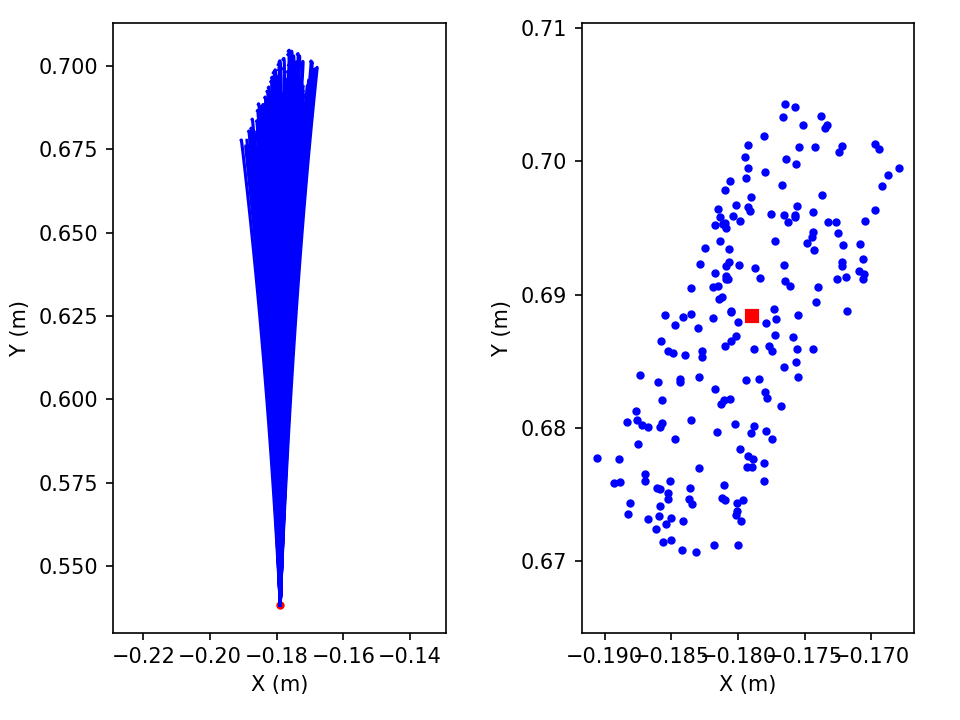
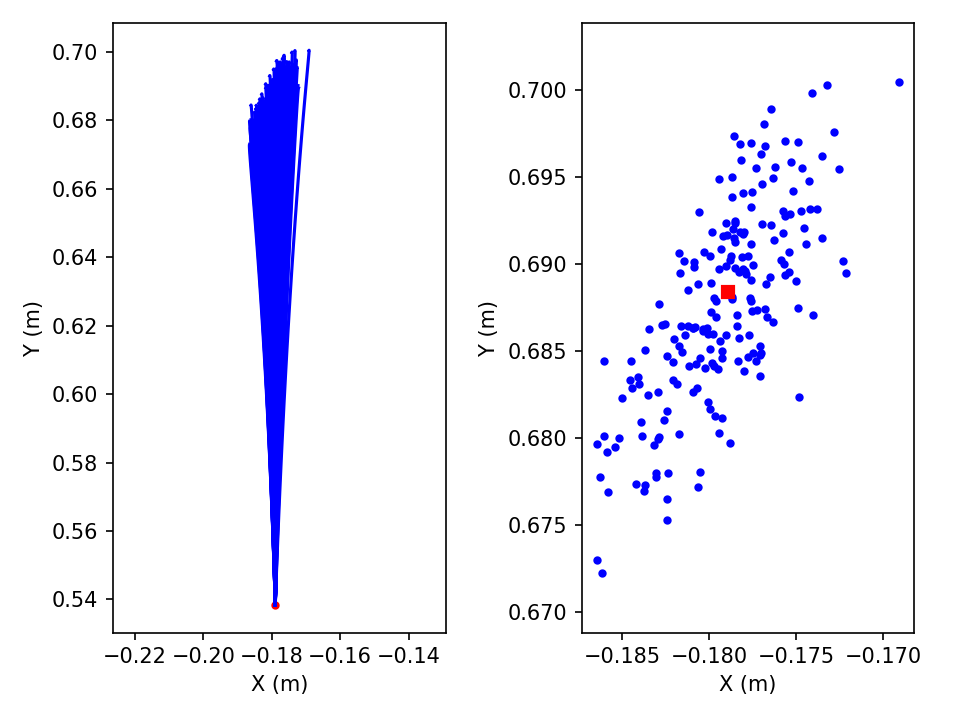
gaussian

diff --git a/go.py b/go.py
@@ -87,7 +87,7 @@ f2ax2.set_ylabel('Y (m)')
 f2.tight_layout()
 
 
-# re-do forward simulations and randomly amplify or diminish joint torques
+# re-do forward simulations and randomly (gaussian) amplify or diminish joint torques
 # within a given range, and replot. In particular example hand endpoint
 # distribution
 
@@ -96,8 +96,8 @@ n_perts = 200
 for i in range(n_perts):
 	print("perturbation {0} of {1}".format(i+1,n_perts), end="\r")
 	QQ = np.copy(Q)
-	QQ[:,0] = QQ[:,0] * np.random.uniform(0.85, 1.15)
-	QQ[:,1] = QQ[:,1] * np.random.uniform(0.85, 1.15)
+	QQ[:,0] = QQ[:,0] * (0.05*np.random.randn()+1.0) # mean 1.0, sd 0.05
+	QQ[:,1] = QQ[:,1] * (0.05*np.random.randn()+1.0)
 	A0, Ad0 = A[0,:], Ad[0,:] # starting joint angles and velocities
 	A_sim, Ad_sim, Add_sim = forward_dynamics(A0, Ad0, QQ, t, aparams)
 	f1ax1.plot(t,A_sim[:,0]*180/np.pi,'g-')
